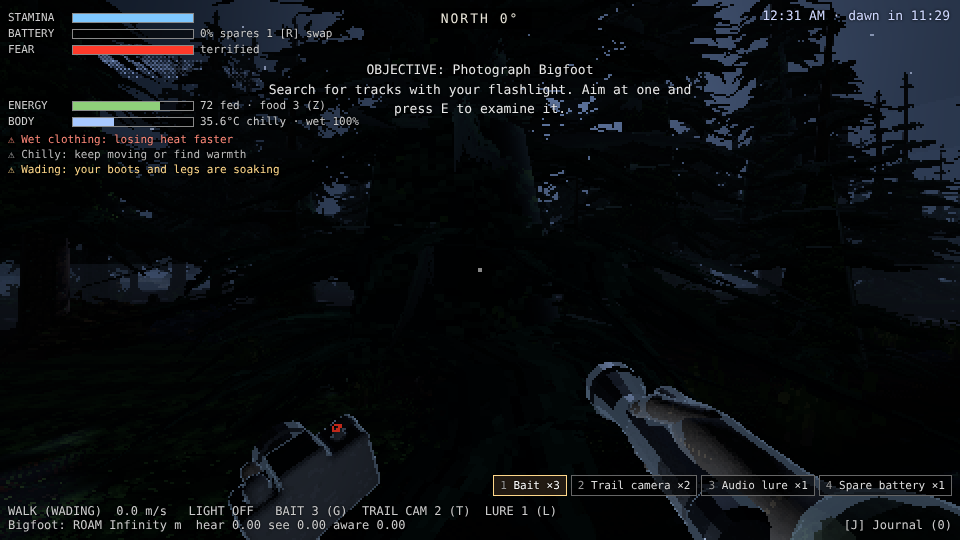
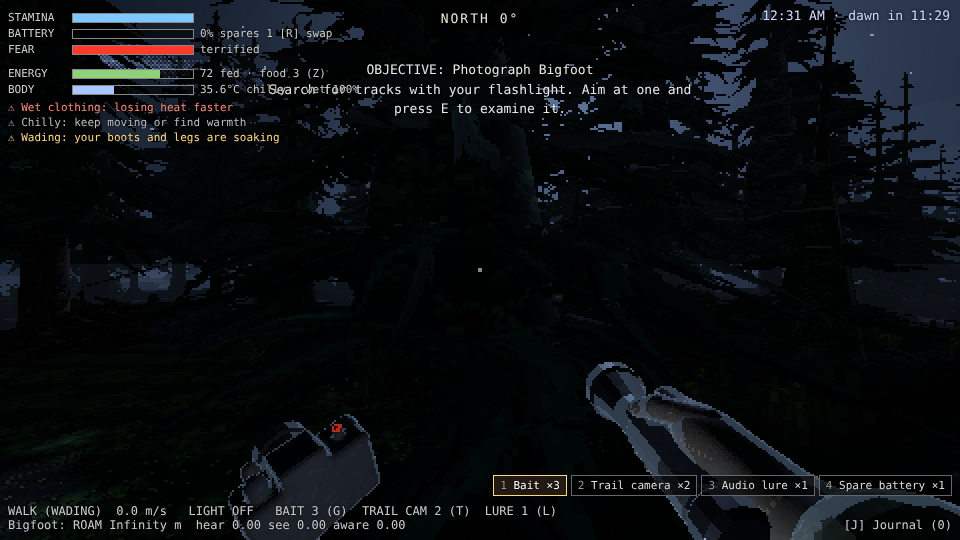
#68 Nutrition and thermoregulation survival systems
Energy reserve with food (Z eats) and core temperature with wetness and
insulation; wading soaks, fire/cabin/tent/van warm and dry. Single owner
per state; hunger and cold slow stamina recovery (GDD 2.8); tutorial floors,
no death. HUD bars + cause-naming warnings. Adds check:t68.

Claude-Session: https://claude.ai/code/session_0163yRzLCrst6QKZAZ52itsT

Changed region(s): [[0.0, 0.1185, 0.375, 0.3259], [0.9688, 0.5926, 1.0, 0.6222]]

diff --git a/.ballast/reports/t68.md b/.ballast/reports/t68.md
@@ -1,0 +1,18 @@
+STATUS: DONE
+- Two new survival systems, with ENERGY and BODY bars under your fear bar and warnings that name their cause:
+  - **Energy (hunger):** drains slowly (a full reserve lasts about 30 minutes of walking), faster when you sprint or are cold. You carry a packed lunch (+40) and two trail snacks (+15); press Z to eat, and the meal soaks in over a few seconds. Below half: "Hungry: stamina recovers slower. Eat something (Z)". It bottoms out at "very hungry", never starvation.
+  - **Body temperature and wetness:** wading the creek or swamp soaks you, and wet clothing loses heat much faster. Dry on a cold night you stay comfortable. The campfire, the cabin, the tent and the van dry you out and warm you back up ("warming (campfire)"). Chilly, then "Cold: shivering, stamina recovers slower. Get dry and find a fire". It never goes below a tutorial floor (34.6 °C): it hurts your stamina, never kills you.
+- Each system owns only its own numbers. Cold makes you burn energy faster, and hunger and cold together slow stamina recovery (down to a quarter at worst), following the GDD rule.
+- How to see it: `npm run dev` with `?map=forest`, stand in the creek, then warm up at the campfire east of the trail; press Z when hungry.
+- Verified (`npm run check:t68`): 90 s dry on a cold night stayed comfortable with no warnings. 2 minutes in the creek: soaked 100%, 35.6 °C, with "Wet clothing: losing heat faster" and "Wading" warnings. 20 more minutes in the water: cold and shivering, stamina recovery at 25%, but no death and the hunt went on. 3 minutes at the campfire: dry, 37.2 °C, warnings cleared. Pressing Z at 30 energy brought it to 69 and used the lunch. The determinism, fear, hunt, base camp and movement checks still pass. Captures in `.ballast/media/t68/`.
+- Assumptions: night air 6 °C in Pine Hollow and 13 °C in the swamp; you're wearing the everyday jacket from the GDD starter kit; food is a fixed per-hunt kit for now (base camp doesn't track or sell food yet).
+- PR: (link added once opened)
+
+## Questions
+### How punishing should getting cold and wet be on the first hunt?
+Context: Standing in the creek soaks you in about ten seconds. After two minutes you're "chilly", and after much longer you're "cold" and shivering, with stamina refilling at a quarter of the normal speed. You can never die of cold on this first map, and a few minutes by the campfire or in the cabin fixes it.
+Options: - Gentle (current: a nuisance that teaches you to stay dry and use fires)
+- Harsher (cold arrives faster and also slows your walking)
+- Real danger (cold can eventually knock you out and end the hunt)
+Going with: gentle, matching the GDD's forgiving tutorial values.
+Capture: 02-twenty-minutes-in-the-creek.png
